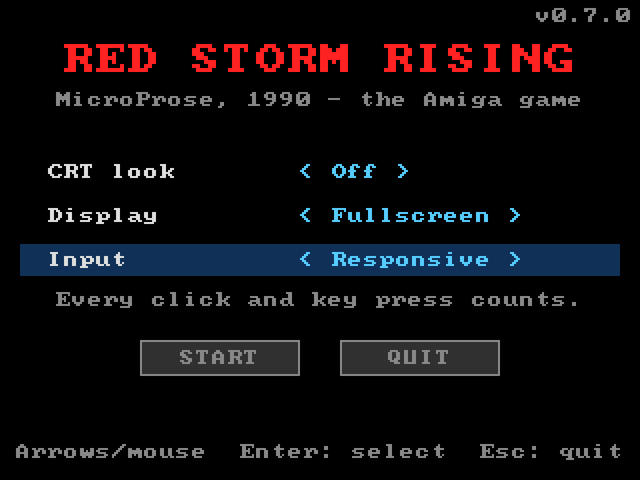
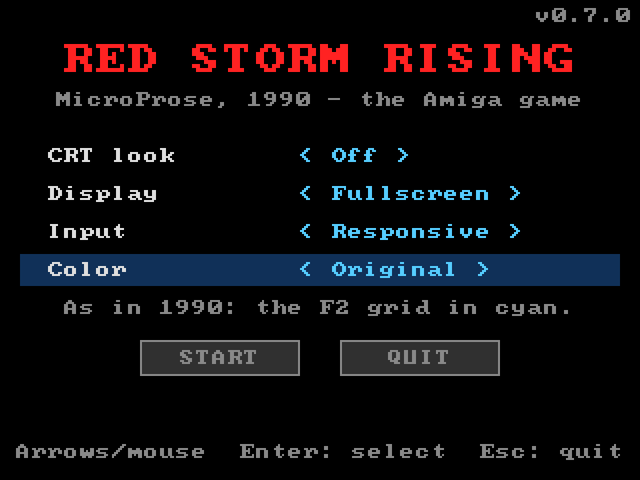
Color option: a darker grid on the weapon control display
The weapon control display (F2) draws its grid in the original's pure
cyan, the brightest colour of the battle palette, which crowds the
symbols. With --alternative-color, or Color: Alternative on the launch
screen (a new row, remembered), the grid is deep sea (pen 27, $048).
Original stays the default, so the recordings are unchanged. Gate PASS.

Changed region(s): [[0.0312, 0.3125, 0.9688, 0.6562], [0.7812, 0.375, 0.8125, 0.4062]]

diff --git a/src/launcher.cpp b/src/launcher.cpp
@@ -54,7 +54,7 @@ void centred(SDL_Renderer* r, float y, const std::string& s, Colour c, float sca
 bool inside(const SDL_FRect& f, float x, float y) { return x >= f.x && x < f.x + f.w && y >= f.y && y < f.y + f.h; }
 
 // The rows the player moves between.
-enum Row { kRowCrt, kRowDisplay, kRowInput, kRowStart, kRowQuit };
+enum Row { kRowCrt, kRowDisplay, kRowInput, kRowColor, kRowStart, kRowQuit };
 
 }  // namespace
 
@@ -70,6 +70,7 @@ Settings load(const std::string& path) {
     if (key == "crt") s.crt = value;
     else if (key == "fullscreen") s.fullscreen = value != "0";
     else if (key == "input") s.original_input = value == "original";
+    else if (key == "color") s.alternative_color = value == "alternative";
   }
   return s;
 }
@@ -77,7 +78,8 @@ Settings load(const std::string& path) {
 void save(const Settings& s, const std::string& path) {
   std::ofstream out(path);
   out << "crt=" << s.crt << "\nfullscreen=" << (s.fullscreen ? 1 : 0)
-      << "\ninput=" << (s.original_input ? "original" : "responsive") << "\n";
+      << "\ninput=" << (s.original_input ? "original" : "responsive")
+      << "\ncolor=" << (s.alternative_color ? "alternative" : "original") << "\n";
 }
 
 bool run(Settings& s) {
@@ -99,7 +101,8 @@ bool run(Settings& s) {
 
   // Where things are, for the mouse.
   const SDL_FRect start_button{70, 170, 80, 18}, quit_button{170, 170, 80, 18};
-  const SDL_FRect crt_row{10, 78, 300, 16}, display_row{10, 100, 300, 16}, input_row{10, 122, 300, 16};
+  const SDL_FRect crt_row{10, 70, 300, 16}, display_row{10, 89, 300, 16}, input_row{10, 108, 300, 16},
+      color_row{10, 127, 300, 16};
 
   bool result = false, done = false;
   auto activate = [&](int r, int step) {
@@ -107,14 +110,15 @@ bool run(Settings& s) {
       case kRowCrt: crt = (crt + step + kCrtCount) % kCrtCount; break;
       case kRowDisplay: s.fullscreen = !s.fullscreen; break;
       case kRowInput: s.original_input = !s.original_input; break;
+      case kRowColor: s.alternative_color = !s.alternative_color; break;
       case kRowStart:
         if (can_start) result = done = true;
         break;
       case kRowQuit: done = true; break;
     }
   };
-  auto rows = [&] { return can_start ? std::vector<int>{kRowCrt, kRowDisplay, kRowInput, kRowStart, kRowQuit}
-                                     : std::vector<int>{kRowCrt, kRowDisplay, kRowInput, kRowQuit}; };
+  auto rows = [&] { return can_start ? std::vector<int>{kRowCrt, kRowDisplay, kRowInput, kRowColor, kRowStart, kRowQuit}
+                                     : std::vector<int>{kRowCrt, kRowDisplay, kRowInput, kRowColor, kRowQuit}; };
   auto move = [&](int step) {
     const std::vector<int> rs = rows();
     size_t at = 0;
@@ -166,6 +170,7 @@ bool run(Settings& s) {
           if (inside(crt_row, x, y)) row = kRowCrt;
           else if (inside(display_row, x, y)) row = kRowDisplay;
           else if (inside(input_row, x, y)) row = kRowInput;
+          else if (inside(color_row, x, y)) row = kRowColor;
           else if (can_start && inside(start_button, x, y)) row = kRowStart;
           else if (inside(quit_button, x, y)) row = kRowQuit;
           break;
@@ -176,6 +181,7 @@ bool run(Settings& s) {
           if (inside(crt_row, x, y)) activate(kRowCrt, step);
           else if (inside(display_row, x, y)) activate(kRowDisplay, step);
           else if (inside(input_row, x, y)) activate(kRowInput, step);
+          else if (inside(color_row, x, y)) activate(kRowColor, step);
           else if (can_start && inside(start_button, x, y)) activate(kRowStart, 1);
           else if (inside(quit_button, x, y)) activate(kRowQuit, 1);
           break;
@@ -198,15 +204,18 @@ bool run(Settings& s) {
       text(ren, 24, y, label, kText);
       text(ren, 150, y, "< " + value + " >", kValue);
     };
-    option(kRowCrt, crt_row, 82, "CRT look", kCrts[crt].label);
-    option(kRowDisplay, display_row, 104, "Display", s.fullscreen ? "Fullscreen" : "Window");
-    option(kRowInput, input_row, 126, "Input", s.original_input ? "Original" : "Responsive");
+    option(kRowCrt, crt_row, 74, "CRT look", kCrts[crt].label);
+    option(kRowDisplay, display_row, 93, "Display", s.fullscreen ? "Fullscreen" : "Window");
+    option(kRowInput, input_row, 112, "Input", s.original_input ? "Original" : "Responsive");
+    option(kRowColor, color_row, 131, "Color", s.alternative_color ? "Alternative" : "Original");
     const char* about = row == kRowCrt       ? kCrts[crt].about
                         : row == kRowDisplay ? "F11 switches in the game too."
                         : row == kRowInput   ? (s.original_input ? "As in 1990: quick presses may be lost."
                                                                  : "Every click and key press counts.")
+                        : row == kRowColor   ? (s.alternative_color ? "A dark blue grid on the F2 display."
+                                                                    : "As in 1990: the F2 grid in cyan.")
                                              : "";
-    centred(ren, 146, about, kDim);
+    centred(ren, 150, about, kDim);
     // The buttons, or why the game cannot start.
     auto button = [&](int r, const SDL_FRect& f, const char* label) {
       colour(ren, row == r ? kHighlight : kButton);
@@ -218,7 +227,7 @@ bool run(Settings& s) {
     if (can_start) {
       button(kRowStart, start_button, "START");
     } else {
-      float y = 156;
+      float y = 160;
       for (size_t at = 0; at <= s.error.size();) {  // the message, wrapped at 38 characters
         size_t end = std::min(s.error.size(), at + 38);
         if (end < s.error.size()) {
@@ -228,7 +237,7 @@ bool run(Settings& s) {
         centred(ren, y, s.error.substr(at, end - at), kWarn);
         y += 10;
         at = end + 1;
-        if (y > 166) break;
+        if (y > 170) break;
       }
     }
     button(kRowQuit, can_start ? quit_button : SDL_FRect{120, 190, 80, 18}, "QUIT");

diff --git a/src/main.cpp b/src/main.cpp
@@ -564,6 +564,7 @@ void usage() {
           "  --protection     keep the manual-protection question\n"
           "  --original-input read input as the original did: quick clicks and quickly\n"
           "                   typed keys can be lost (docs/known-issues.md)\n"
+          "  --alternative-color  a darker grid on the weapon control display (F2)\n"
           "  --pal            a European (PAL, 50 Hz) Amiga (the default)\n"
           "  --ntsc           an American (NTSC, 60 Hz) Amiga: pictures run 20%% faster\n"
           "  --det-timing     deterministic timing (for comparing runs)\n"
@@ -613,6 +614,7 @@ int main(int argc, char** argv) {
     else if (a == "--protection") machine.bypass_protection = false;
     else if (a == "--reference-terrain") machine.reference_terrain = true;
     else if (a == "--original-input") machine.original_input = true;
+    else if (a == "--alternative-color") machine.alternative_color = true;
     else if (a == "--pal") machine.pal = true;
     else if (a == "--ntsc") machine.pal = false;
     else if (a == "--det-timing") det_timing = true;
@@ -710,6 +712,7 @@ int main(int argc, char** argv) {
     crt = ls.crt;
     host.fullscreen = ls.fullscreen;
     machine.original_input = ls.original_input;
+    machine.alternative_color = ls.alternative_color;
   }
   if (!crt.empty()) {
     if (!host.shader_preset.empty()) {

diff --git a/src/game/storm/panels.cpp b/src/game/storm/panels.cpp
@@ -8,6 +8,7 @@
 #include "game/common/strings.hpp"
 #include "game/input/calls.hpp"
 #include "game/input/vars.hpp"
+#include "game/mem/call.hpp"
 #include "game/mem/register.hpp"
 #include "game/screen/calls.hpp"
 
@@ -464,9 +465,12 @@ ORIGINAL_IN("storm", 0x22cc8, shade_column);
 // $2bfd8: the tactical display's grid, 512 >> scale pixels apart from the
 // centre. Displays other than 3 and 5 take the pen from a local the
 // original never sets; it is 6 in every scenario (the battle log's map).
+// With the alternative colours display 3 (weapon control) has a darker
+// grid than the original's cyan.
 void draw_grid() {
   constexpr int16_t kCentreX = 188;
-  const int16_t pen = battle.display_mode == 3 ? kGridPen3 : battle.display_mode == 5 ? kGridPen5 : kGridPenOther;
+  const int16_t grid3 = mem::alternative_color() ? kGridPen3Alternative : kGridPen3;
+  const int16_t pen = battle.display_mode == 3 ? grid3 : battle.display_mode == 5 ? kGridPen5 : kGridPenOther;
   const int16_t step = int16_t(512 >> battle.scale);
   for (int16_t d = 0; kCentreX + d < kMapRight; d = int16_t(d + step)) {
     screen::line_colour(int16_t(kCentreX + d), kMapTop, int16_t(kCentreX + d), kMapBottom, pen);

diff --git a/src/launcher.hpp b/src/launcher.hpp
@@ -3,7 +3,8 @@
 
 // The launch screen (shown when the program starts without options): the
 // CRT look, fullscreen or a window, the input (responsive or as the
-// original), then start the game or quit. Drawn
+// original), the colours (original or alternative), then start the game
+// or quit. Drawn
 // with SDL only (its renderer and built-in 8x8 font).
 #pragma once
 
@@ -15,6 +16,7 @@ struct Settings {
   std::string crt;          // a bundled preset's name ("crt-lottes-fast" ...); empty: none
   bool fullscreen = true;
   bool original_input = false;  // input read as the original (--original-input); default: responsive
+  bool alternative_color = false;  // the F2 grid darker (--alternative-color); default: the original's
   std::string error;        // shown instead of Start (no game files ...)
 };
 

diff --git a/src/game/storm/vars.hpp b/src/game/storm/vars.hpp
@@ -310,6 +310,9 @@ inline constexpr Const<char> text_threats{-27088}, text_weapons{-25948}, text_re
     text_deg{-24706}, text_knts{-24702}, text_ft{-24696};
 inline constexpr int16_t kWeaponTypes = 8, kReloadLines = 5;
 inline constexpr int16_t kGridPen3 = kPenCyan, kGridPen5 = kPenDarkRed, kGridPenOther = kPenPlum;
+// Not the original's: display 3's grid with the alternative colours
+// (mem::alternative_color()), deep sea instead of the bright cyan.
+inline constexpr int16_t kGridPen3Alternative = kPenDeepSea;
 inline constexpr Const<char> text_tube{-25940}, text_pad{-31260}, text_tasm{-25934};
 inline constexpr Const<char> text_cavitating{-24692}, text_quiet{-24690};
 inline constexpr int16_t kTubeNameLength = 8;

diff --git a/src/amiga/machine.hpp b/src/amiga/machine.hpp
@@ -252,6 +252,10 @@ public:
   // together, or all but the last of several keys typed quickly, are lost
   // (docs/known-issues.md). Off: one press per read (Hle::next_input).
   bool original_input = false;
+  // --alternative-color (the launch screen's Color: Alternative): the
+  // weapon control display's grid in deep sea instead of the original's
+  // bright cyan (game::mem::alternative_color()). Off: as the original.
+  bool alternative_color = false;
   static constexpr uint32_t kReferenceStormBlock = 0x09e4f8;
   // Module `name`'s file as LoadSeg would load it at `block`.
   const std::vector<uint8_t>& image_as_loaded_at(const std::string& name, uint32_t block);

diff --git a/src/game/mem/call.hpp b/src/game/mem/call.hpp
@@ -53,4 +53,8 @@ inline uint32_t code_address(uint32_t tool_addr) { return runtime::maddr(tool_ad
 // the patched routine asks here.
 inline bool protection_bypassed() { return runtime::g_machine->bypass_protection; }
 
+// The alternative colours (--alternative-color; the default is the
+// original's): where the port offers a calmer colour than the original.
+inline bool alternative_color() { return runtime::g_machine->alternative_color; }
+
 }  // namespace game::mem

diff --git a/README.md b/README.md
@@ -57,11 +57,13 @@ build/rsr path/to/RedStormRising_v1.0_1603.lha   # or: build/rsr disk1.adf disk2
   - **Input:** Responsive (the default: every click and key press counts)
     or Original (as in 1990, when a quick click or quickly typed digits
     could be lost).
+  - **Color:** Original (the default) or Alternative, a dark blue grid on
+    the weapon control display (F2) instead of the bright cyan.
 
   Then Start or Quit. Any command-line option skips it; `build/rsr --help`
   lists them.
 
-  <img src="docs/screenshots/launch-screen.png" alt="The launch screen: CRT look, Display and Input, then Start or Quit" width="400">
+  <img src="docs/screenshots/launch-screen.png" alt="The launch screen: CRT look, Display, Input and Color, then Start or Quit" width="400">
 
 - **Keys:** [`docs/keys.pdf`](docs/keys.pdf) is a one-page cheat sheet.
   The game is played with keyboard and mouse.

diff --git a/docs/README.md b/docs/README.md
@@ -35,7 +35,9 @@ build/rsr --help                 # the options
 double-click, `run.bat`), the program first shows a launch screen
 (`src/launcher.cpp`): the CRT look (Off, Lottes fast, Guest fast, Guest,
 Royale), fullscreen or a window, the input (responsive, the default, or
-as the original: `--original-input`, see known-issues.md), Start or Quit.
+as the original: `--original-input`, see known-issues.md), the colours
+(original, the default, or alternative: `--alternative-color`, a dark blue
+grid on the weapon control display), Start or Quit.
 
 - It works with the mouse or the keys, and remembers the choices in
   `launcher.cfg` in the user's folder.
